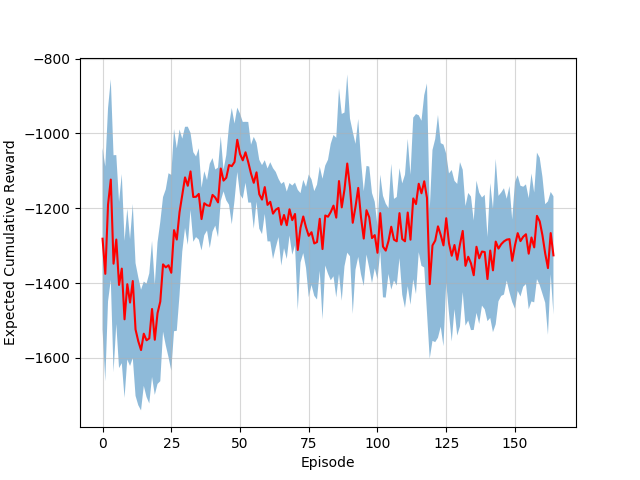
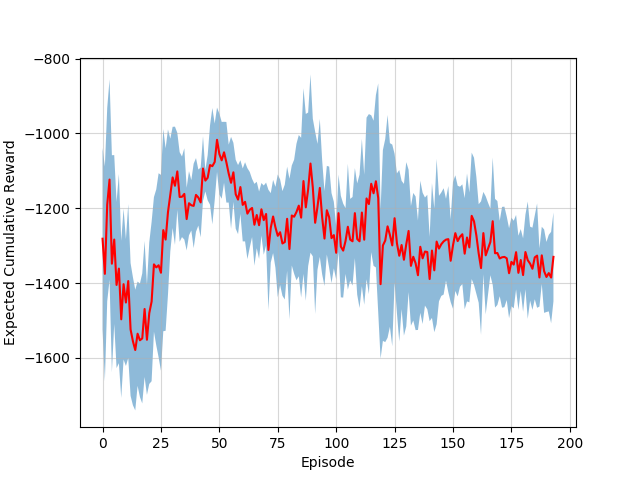
fixed memory bug

diff --git a/a2c_lax.py b/a2c_lax.py
@@ -3,6 +3,8 @@ import gym
 import numpy as np
 from copy import deepcopy
 
+from quanser_robots import GentlyTerminating
+
 from common.filters import ZFilter
 from common.plot import plt_expected_cum_reward
 from policies import LaxPolicyModel
@@ -199,21 +201,6 @@ class RolloutRunner(object):
         self._num_rollouts += 1
         self._num_steps += len(rewards)
 
-        # np.random.seed(1337)
-        # obs = np.random.random((200, 6)).astype('f')
-        # rewards = np.random.random(200).astype('f')
-        # acts = np.random.random((200, 1)).astype('f')
-        # act_dist = np.random.random((200, 2)).astype('f')
-        # ac_dist_mean = act_dist[:, 0]
-        # ac_dist_std = act_dist[:, 1]
-        # logps = np.random.random(200).astype('f')
-        #
-        #
-        # path = {"observation": torch.tensor(obs), "terminated": done,
-        #         "reward": torch.tensor(rewards), "action": torch.tensor(acts),
-        #         "act_mean": torch.tensor(ac_dist_mean)[:,None], "act_std": torch.tensor(ac_dist_std)[:,None],
-        #         "logp": torch.tensor(logps)}
-
         path = {"observation": torch.stack(obs), "terminated": done,
                 "reward": torch.tensor(rewards), "action": torch.stack(acts),
                 "act_mean": torch.stack(ac_dist_mean), "act_std": torch.stack(ac_dist_std),
@@ -221,8 +208,6 @@ class RolloutRunner(object):
 
         rew_t = path["reward"]
         value = self.step_policy_model.predict_value(path).detach()
-        # np.random.seed(1337)
-        # value = to_torch(np.random.random(200).astype('f'))
         vtarget = to_torch((calc.discount(np.append(to_npy(rew_t), 0.0 if path["terminated"] else value[-1]), self.gamma)[:-1]).copy())
         vpred_t = torch.cat([value, torch.zeros([1])]) if path["terminated"] else torch.cat([value, value[-1]])
         delta_t = rew_t + self.gamma * vpred_t[1:] - vpred_t[:-1]
@@ -361,6 +346,8 @@ def learn(env: gym.Env, seed, total_steps=int(10e6),
         model.step_policy_model.policy.load_state_dict(model.train_policy_model.policy.state_dict())
         # model.step_policy_model.cv_net.load_state_dict(model.train_policy_model.cv_net.state_dict())
         model.step_policy_model.vf_net.load_state_dict(model.train_policy_model.vf_net.state_dict())
+        model.step_policy_model.policy_optim.zero_grad()
+        model.train_policy_model.policy_optim.zero_grad()
 
         plot_path = '/Users/kek/Documents/informatik/master/semester_3/thesis/code/bpttv-lax/evals/plots'
         plt_expected_cum_reward(plot_path, exp_rews_means, exp_rews_stds)
@@ -371,10 +358,13 @@ if __name__ == '__main__':
 
     seed = 42
     set_global_seeds(seed)
-    env = gym.make('Pendulum-v0')
+    # env = gym.make('Pendulum-v0')
+    env = GentlyTerminating(gym.make('CartpoleStabShort-v0'))
+    # env = GentlyTerminating(gym.make('Qube-100-v0'))
+
     env.seed(seed)
     obs_dim = env.observation_space.shape[0]
     act_dim = env.action_space.shape[0]
     policy = LaxPolicyModel(obs_dim, act_dim, p_lr=1e-4)
 
-    learn(env, 1337, obfilter=True, tsteps_per_batch=3000, lax=True)
+    learn(env, 1337, obfilter=True, tsteps_per_batch=2500, lax=True)

diff --git a/common/plot.py b/common/plot.py
@@ -20,5 +20,6 @@ def plt_expected_cum_reward(path, expected_reward, std):
     ax.grid(alpha=0.5, linestyle='-')
 
 
-    fig.savefig(path+'/reward_lax_True_cv_mins_3000_act_detach-2opt_steps.png')
+    fig.savefig(path+'/reward_lax_True_cv_mins_2500_act_detach-5opt_cartpole.png')
+    plt.clf()
     plt.close('all')
